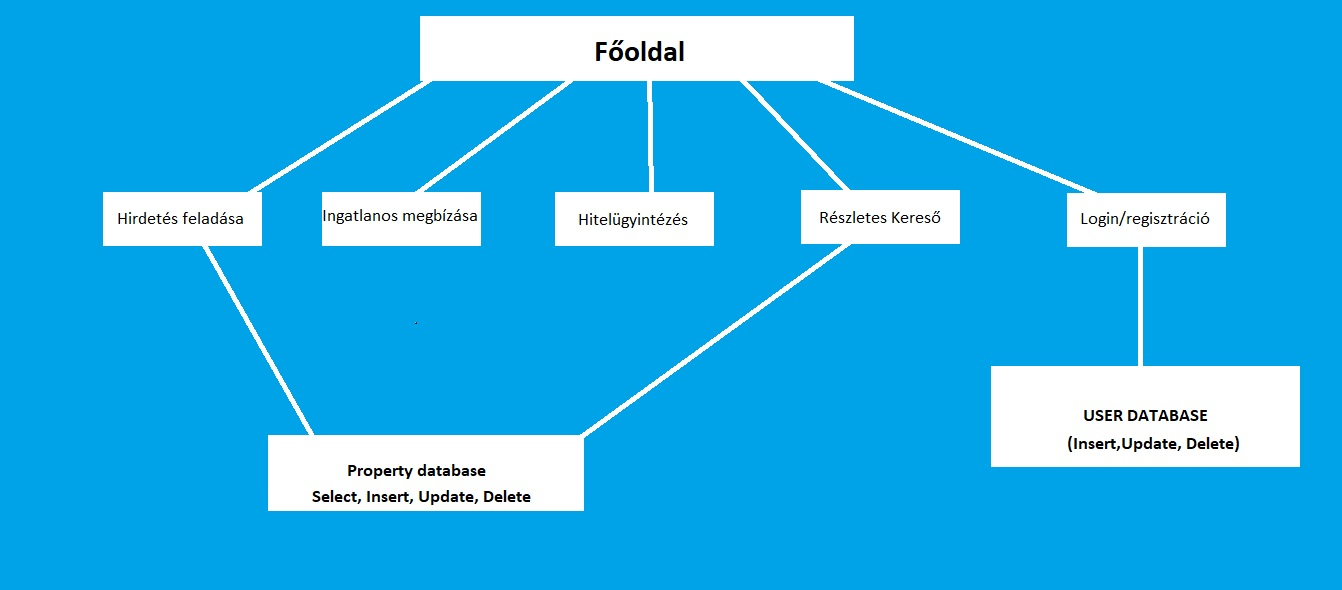
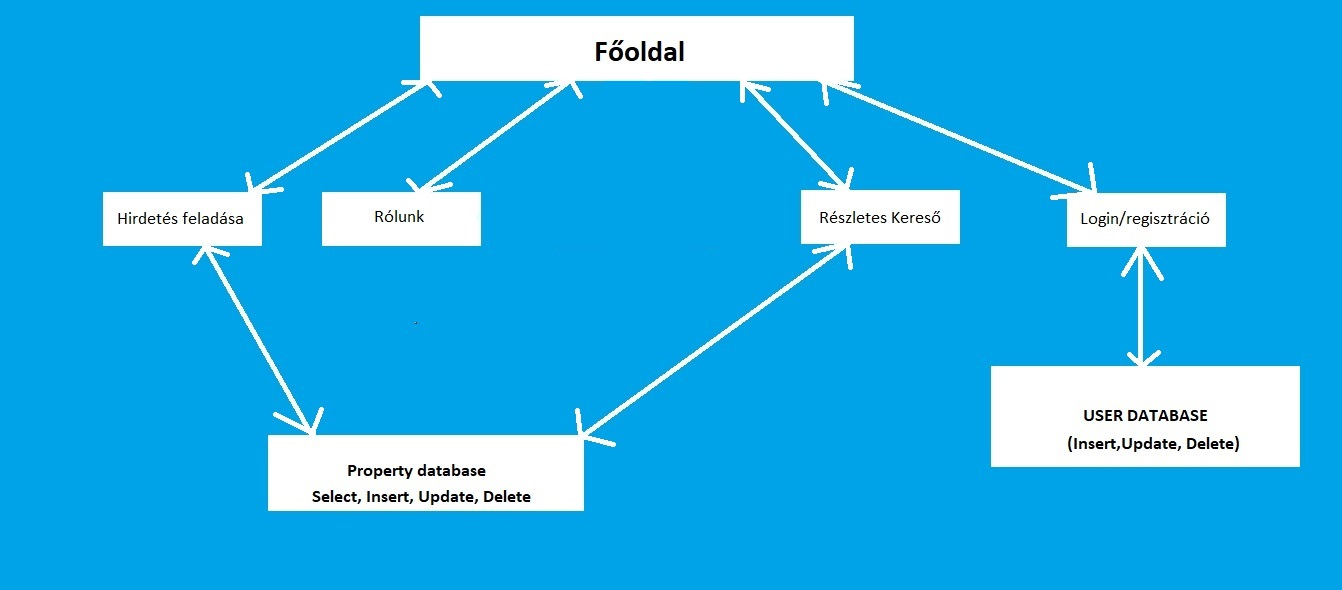
draft

diff --git a/Documents/WebSite Modell ReadMe.md b/Documents/WebSite Modell ReadMe.md
@@ -1,0 +1,15 @@
+WebSite Modell
+
+
+
+A Website modell szemlélteti az oldal struktúráját, tehát mely oldal miből fog nyílni, illetve mely oldalak fognak adatbázis kezelést végezni.
+
+Mivel a főoldal logója minden egyes oldalon szerepelni fog, így értelemszerűen az összes oldalról egyaránt el lehet érni a főoldalt, ezért lesz kétirányú a kapcsolat.
+
+A hirdetés feladása és kereső oldalak kapcsolódnak a property(ingatlan) adatbázishoz.
+
+A kereső oldal részről jön a select parancs, míg a hirdetés feladása oldal fogja lehetővé tenni, hogy létrehozzunk új hirdetést(insert), változtassunk az adatlapon(update) és töröljünk(delete).
+
+A felhasználó adatbázist pedig a login/regisztráció oldal fogja kezelni az insert/update/delete parancsokkal.
+
+ 
